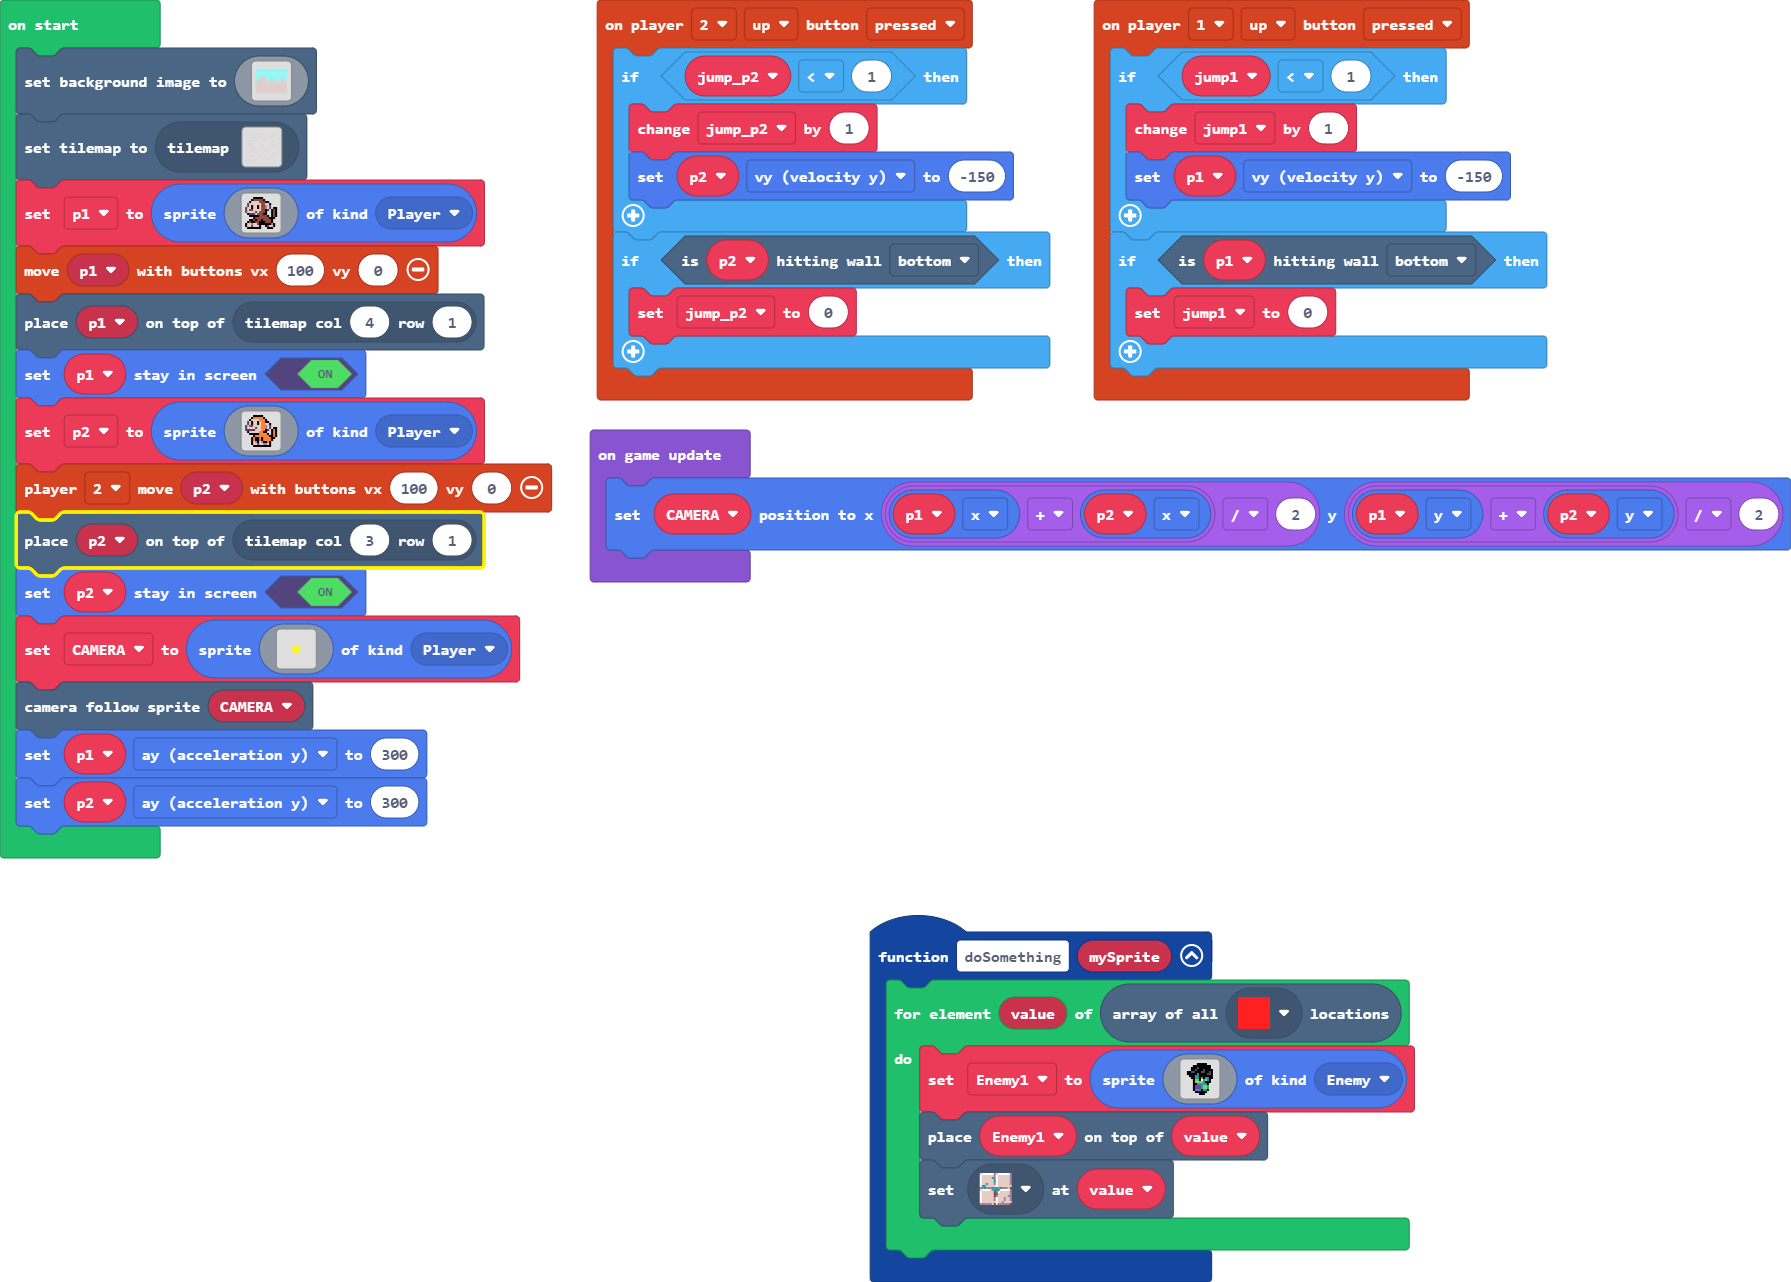
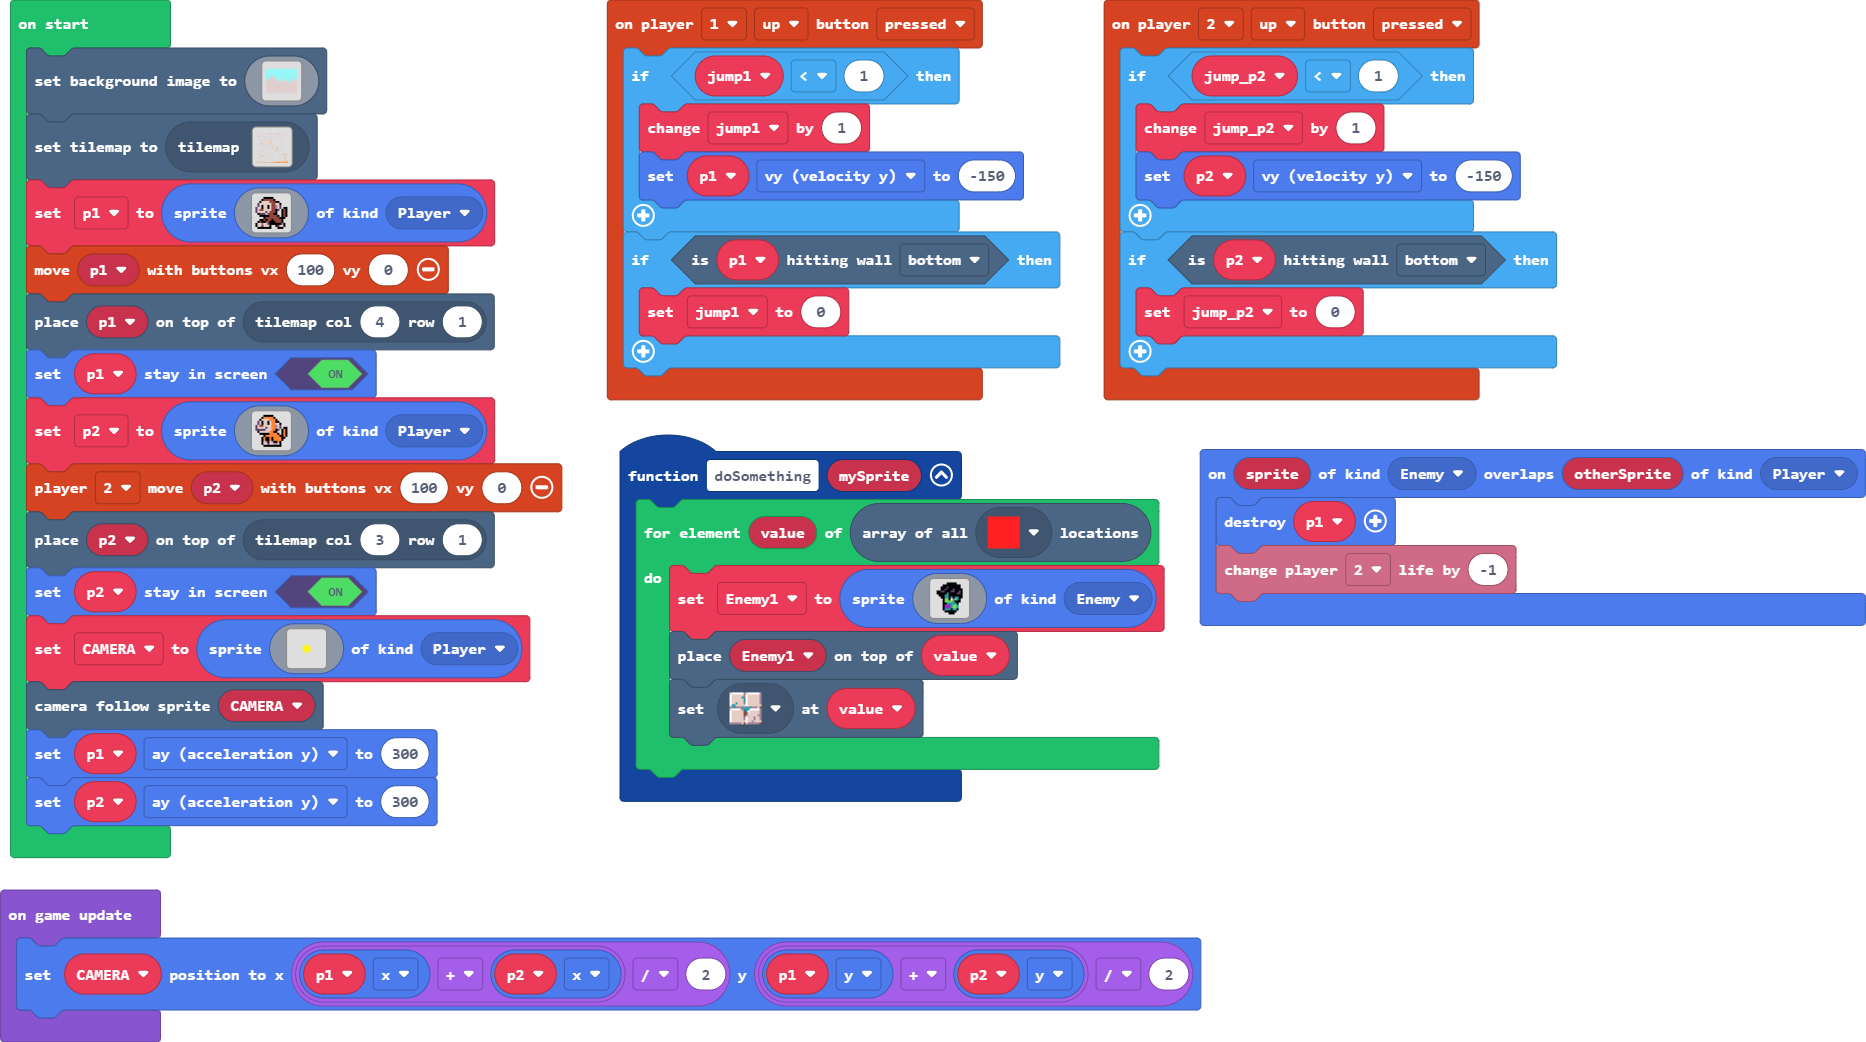
Update main.blocks, main.ts

diff --git a/main.ts b/main.ts
@@ -40,6 +40,10 @@ function doSomething (mySprite: Sprite) {
         tiles.setTileAt(value, sprites.dungeon.floorLightMoss)
     }
 }
+sprites.onOverlap(SpriteKind.Enemy, SpriteKind.Player, function (sprite, otherSprite) {
+    sprites.destroy(p1)
+    info.player2.changeLifeBy(-1)
+})
 let Enemy1: Sprite = null
 let jump_p2 = 0
 let jump1 = 0
